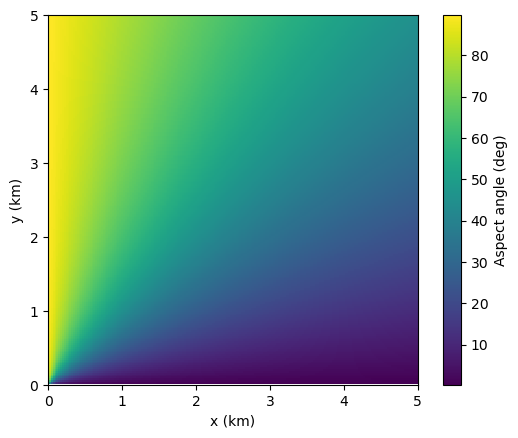
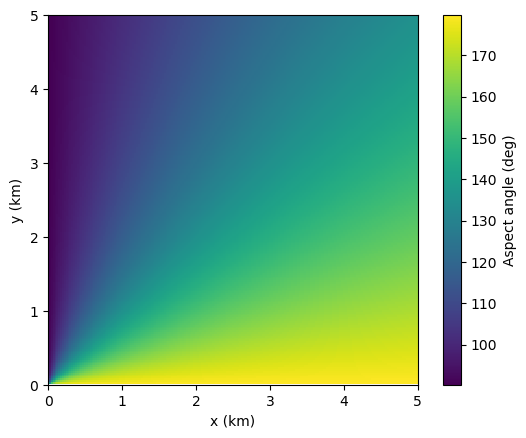
corrected aspect plot

diff --git a/docs/radar.html b/docs/radar.html
@@ -458,7 +458,7 @@ Figure&nbsp;1: Radar cross-section of composite canonical model for a small comm
 </div>
 </div>
 <figcaption class="quarto-float-caption-bottom quarto-float-caption quarto-float-fig" id="fig-monostatic-caption-0ceaefa1-69ba-4598-a22c-09a6ac19f8ca">
-Figure&nbsp;2: Plots for a target heading in the +<em>x</em> direction, with a monostatic radar located at the origin. The result at each (<em>x</em>, <em>y</em>) position corresponds to the target being at that position. (a) Aspect angle of target. Since the target is headed in the +<em>x</em> direction, aspect angle is highest (broad-side) when its <em>x</em>-coordinate is close to zero, and lowest (tail-on) when its <em>y</em>-coordinate is close to zero. (b) Radar cross-section of target. Broad-side aspect corresponds with a trough in the RCS, as seen in <a href="#fig-polar-rcs" class="quarto-xref">Figure&nbsp;1</a>, and tail-on corresponds with a peak. The peaks and troughs are also responsible for the banding in the plot. (c) Signal-to-noise ratio of target. High SNR is observed close to the radar due to strong range dependence, but SNR is also enhanced for <em>y</em> close to zero due to the RCS aspect peak. (d) Probability-of-detection contours. <em>P<sub>d</sub></em> is highest in regions of high SNR.
+Figure&nbsp;2: Plots for a target heading in the +<em>x</em> direction, with a monostatic radar located at the origin. The result at each (<em>x</em>, <em>y</em>) position corresponds to the target being at that position. (a) Aspect angle of target. Since the target is headed in the +<em>x</em> direction, aspect angle is lowest (broad-side) when its <em>x</em>-coordinate is close to zero, and highest (tail-on) when its <em>y</em>-coordinate is close to zero. (b) Radar cross-section of target. Broad-side aspect corresponds with a trough in the RCS, as seen in <a href="#fig-polar-rcs" class="quarto-xref">Figure&nbsp;1</a>, and tail-on corresponds with a peak. The peaks and troughs are also responsible for the banding in the plot. (c) Signal-to-noise ratio of target. High SNR is observed close to the radar due to strong range dependence, but SNR is also enhanced for <em>y</em> close to zero due to the RCS aspect peak. (d) Probability-of-detection contours. <em>P<sub>d</sub></em> is highest in regions of high SNR.
 </figcaption>
 </figure>
 </div>

diff --git a/docs/radar.llms.md b/docs/radar.llms.md
@@ -44,7 +44,7 @@ This SNR is then used to determine the probability of detection by numerically i
 
 \(d\)
 
-Figure 2: Plots for a target heading in the +*x* direction, with a monostatic radar located at the origin. The result at each (*x*, *y*) position corresponds to the target being at that position. (a) Aspect angle of target. Since the target is headed in the +*x* direction, aspect angle is highest (broad-side) when its *x*-coordinate is close to zero, and lowest (tail-on) when its *y*-coordinate is close to zero. (b) Radar cross-section of target. Broad-side aspect corresponds with a trough in the RCS, as seen in [Figure 1](#fig-polar-rcs), and tail-on corresponds with a peak. The peaks and troughs are also responsible for the banding in the plot. (c) Signal-to-noise ratio of target. High SNR is observed close to the radar due to strong range dependence, but SNR is also enhanced for *y* close to zero due to the RCS aspect peak. (d) Probability-of-detection contours. *P_(d)* is highest in regions of high SNR.
+Figure 2: Plots for a target heading in the +*x* direction, with a monostatic radar located at the origin. The result at each (*x*, *y*) position corresponds to the target being at that position. (a) Aspect angle of target. Since the target is headed in the +*x* direction, aspect angle is lowest (broad-side) when its *x*-coordinate is close to zero, and highest (tail-on) when its *y*-coordinate is close to zero. (b) Radar cross-section of target. Broad-side aspect corresponds with a trough in the RCS, as seen in [Figure 1](#fig-polar-rcs), and tail-on corresponds with a peak. The peaks and troughs are also responsible for the banding in the plot. (c) Signal-to-noise ratio of target. High SNR is observed close to the radar due to strong range dependence, but SNR is also enhanced for *y* close to zero due to the RCS aspect peak. (d) Probability-of-detection contours. *P_(d)* is highest in regions of high SNR.
 
 In a bistatic radar, the transmitter and receiver are located at different positions. The radar equation changes accordingly:
 